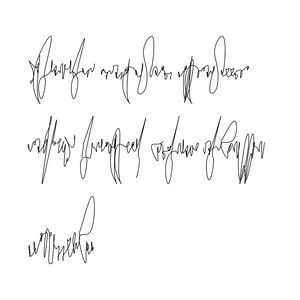
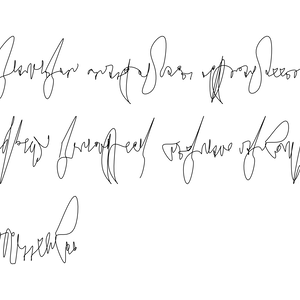
Typos

diff --git a/content/gallery/asemic/_index.html b/content/gallery/asemic/_index.html
@@ -17,8 +17,9 @@ splash:
 <blockquote>
 <p><strong>Asemic characters and words generated with splines controlled by random control-points.</strong></p>
 </blockquote>
-<p>This serie was developed after reading <a href="https://inconvergent.net/generative/sand-glyphs/">Anders Hoff</a> works on <a href="https://en.wikipedia.org/wiki/Asemic_writing">asemic</a> writing. In a first step, glyphs are generated with splines defined by few control point sampled from a 2D space (square, ellipse). Limiting the number of generated glyphs, by mapping then to characters allows to produce words or paragraphs with sensible text-like aesthetics.</p>
-<p>From there, script-like writing is emulated by drawing glyphs independently from each others. If the control points for multiple glyphs are concatenated or increased, the algorithm can generate words or longer, more detailed and complex shapes. The example below are using two random seeds: one for the character set, and one for the text sequence used as layout.</p>
+<p>This serie was developed after reading <a href="https://inconvergent.net/generative/sand-glyphs/">Anders Hoff</a> works on <a href="https://en.wikipedia.org/wiki/Asemic_writing">asemic</a> writing. In his algorithm, individual shapes (glyphs) are generated with splines defined by few control points sampled from a 2D space (square, ellipse), and glyphs are concatenated together to create cursive-like writing.</p>
+<p>Here, to produce words or paragraphs with sensible text-like aesthetics, I limited the number of generated glyphs and mapped them to a fixed set of characters: the represented glyph sequence is a function of a generated text (e.g. Lorem ipsum).</p>
+<p>Variation can be obtained by acting on the glyph aggregation method. If the glyphs are drawn independently from each other, the algorithm emulates scrip writing. More detailed symbols can be obtained by concatenating a few glyphs (2-4) before mapping them to characters. Increasing the number of spline control points also produces refined shapes, but quickly becomes too complex. The examples below are using two random seeds: one for the character set, and one for the text sequence used as layout.</p>
 <div class="gal">
 <div class="container-fluid">
 <div class="row">

diff --git a/content/_index.html b/content/_index.html
@@ -17,7 +17,7 @@ trailer: ""
 .splash-caption-suffix {color: white; text-shadow: 0px 0px 15px black}
 </style>
 <blockquote>
-<p>A visual blog about algorithmic art, mainly designed for pen plotters.</p>
+<p><strong>A visual blog about algorithmic art, mainly designed for pen plotters.</strong></p>
 </blockquote>
 <p>I am using the <a href="https://www.r-project.org/">R</a> programming language to write algorithms that generate digital outputs. Rather than printing, I am interested in using a pen-plotter to draw them on paper. While this process enables drawing with enhanced repetition and precision, it limits the range of techniques available (fills or hatching have to be programmed, pen pressure is constant).</p>
 <p>This site presents digital and some <a href="/gallery/paper">paper</a> outputs, and documents the ideas underlying the functioning of the algorithms. Most of the code to study and reproduce these outputs is released <a href="https://github.com/picasa/generative">here</a> with an open license. Overall, making visual art is very new to me, in my day job I am a scientist working in plant biology. Feel free to contact me via <a href="https://github.com/picasa">email</a> or <a href="https://twitter.com/pircasa">Twitter</a> for any questions related to this place.</p>

diff --git a/content/gallery/attractors/_index.html b/content/gallery/attractors/_index.html
@@ -15,7 +15,7 @@ splash:
 .splash-caption-tweak {color: black}
 </style>
 <blockquote>
-<p>Aesthetic point sets generated by discrete dynamical systems.</p>
+<p><strong>Aesthetic point sets generated by discrete dynamical systems.</strong></p>
 </blockquote>
 <p>This work explores the capacity of discrete dynamical systems to generate a large diversity of point sets. It is based on this <a href="https://sprott.physics.wisc.edu/pubs/paper203.pdf">paper</a> from J.C Sprott in 1993, recently <a href="http://paulbourke.net/fractals/sprott/">reproduced</a> by Paul Bourke. Henrick Lindberg also <a href="https://blog.k2h.se/post/hunting-for-attractors/">published</a> an R implementation of the quadratic map functions used.</p>
 <p>The algorithm is based on a system of difference equations, with 12 parameters. The first step is to sample the parameter space by using a discrete scale of 26 values for each parameter so that each sample can be assigned a “name” with 12 letters. A second step discards failed solutions (convergence to a point, divergence) and filters the aesthetic ones, based on a set of criteria (Lyapunov exponent, summary of point density distribution, correlation). Overall, very few solutions are selected (~ 0.1 %).</p>

diff --git a/content/gallery/collatz/_index.html b/content/gallery/collatz/_index.html
@@ -15,7 +15,7 @@ splash:
 .splash-caption-tweak {color: black}
 </style>
 <blockquote>
-<p>Curves parameterized from integer sequences and positioned according to basic botanical rules.</p>
+<p><strong>Curves parameterized from integer sequences and positioned according to basic botanical rules.</strong></p>
 </blockquote>
 <p>This study focus on using a very simple generator, here a sequence of numbers. This sequence of integers is generated from a set of rules (here, the <a href="https://en.wikipedia.org/wiki/Collatz_conjecture">Collatz</a> sequence). A curve is then defined by mapping sequence elements to segment length, with a fixed angle between segments. Multiple curves are computed to constitute a node, and multiple nodes to constitute a stem. The only random elements are the initial value of the sequence, and the angle distribution between curve segments.<br />
 On this serie, rather than properly computing hidden line or polygons, I used an external algorithm (bitmap tracing) which had the nice side-effect of reshaping and merging some paths.</p>

diff --git a/content/gallery/cells/_index.html b/content/gallery/cells/_index.html
@@ -15,7 +15,7 @@ splash:
 .splash-caption-tweak {color: black; text-shadow: 0px 0px 15px white}
 </style>
 <blockquote>
-<p>Cellular-like features generated from tessellation of point sets.</p>
+<p><strong>Cellular-like features generated from tessellation of point sets.</strong></p>
 </blockquote>
 <p>This algorithm first generates a point set, using either a deterministic (ODE) or stochastic method. Then, a space tessellation method is used on a subset of the original point set. This method is used for different features loosely inspired by cellular biology (e.g. cells, tissues, vessels), that are assembled as different layers.</p>
 <p>The aim was to search for a balance between the algorithm capacity to generate various outputs (but needing a curation step) and its capacity to produce aesthetic but overly similar outputs (narrow parameterization). This solution also allows to explore different scales, provided the initial point set is sufficiently large.</p>

diff --git a/content/gallery/ridges/_index.html b/content/gallery/ridges/_index.html
@@ -15,7 +15,7 @@ splash:
 .splash-caption-tweak {color: black}
 </style>
 <blockquote>
-<p>Distinct and shifted lines visualized from digital elevation model datasets.</p>
+<p><strong>Distinct and shifted lines visualized from digital elevation model datasets.</strong></p>
 </blockquote>
 <p>The central idea is to convert 3D point sets to 2D lines. Digital Elevation Model (DEM) represents elevation as function of latitude and longitude. In France, the national geographic institute makes this DEM available in Open-Data (<a href="https://geoservices.ign.fr/rgealti">RGE</a>, up to a 1m resolution).</p>
 <p>These illustrations are made of multiple lines of elevation as a function of longitude, for discrete latitude values. Overplotting is avoided (hidden lines) by checking for a minimal distance between two lines. Variation comes from the scale and location of the geographical region and from the parameterization of the line clipping method.</p>

diff --git a/content/gallery/paper/_index.html b/content/gallery/paper/_index.html
@@ -15,7 +15,7 @@ splash:
 .splash-caption-tweak {color: white; text-shadow: 0px 0px 15px black}
 </style>
 <blockquote>
-<p>A subset of digital works that are plotted on paper.</p>
+<p><strong>A subset of digital works that are plotted on paper.</strong></p>
 </blockquote>
 <div class="gal">
 <div class="container-fluid">
